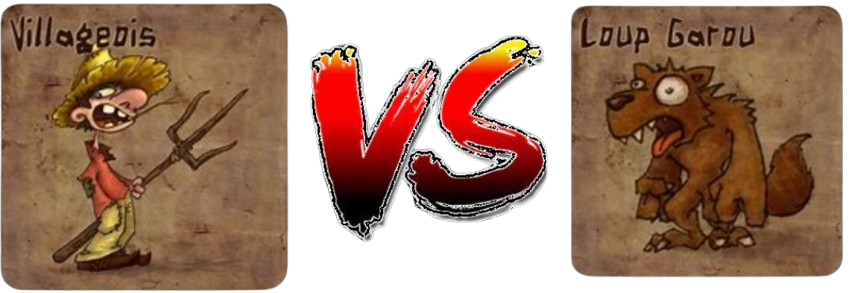
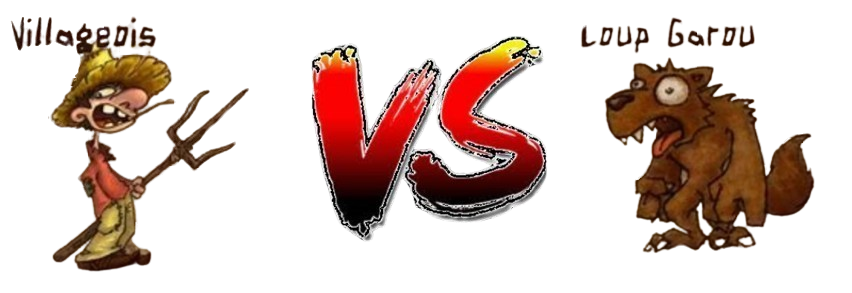
Correction image + fautes d'orthographes

diff --git a/src/app/carte/mock-cartes-list.ts b/src/app/carte/mock-cartes-list.ts
@@ -40,7 +40,7 @@ export const CARTES: Carte[] = [
         camps: CAMPS[0],
         typesPouvoir: [TYPESDEPOUVOIR[0]],
         imageLore:  "vovoLore.png",
-        description: "Chaque nuit à l'appel du meneur, elle a la capacité de voir clairement le rôle du joueur de son choix.",
+        description: "Chaque nuit à l'appel du meneur, elle a la capacité de voir clairement la carte d'un joueur de son choix.",
         typeDeCarte: TYPESDECARTES[0],
         nomDuBatiment: null,
         estActiver: true
@@ -54,7 +54,7 @@ export const CARTES: Carte[] = [
         typesPouvoir: [TYPESDEPOUVOIR[0], TYPESDEPOUVOIR[1], TYPESDEPOUVOIR[2]],
         imageLore:  "sosoLore.png",
         description: "Elle est réveillée par le meneur chaque nuit après les loups garous tant qu’elle a au moins une de ses deux potions. "+ 
-        "La potion de VIE qui peut lui permet de ressusciter la victime des loups garous y compris elle même, et la potion de MORT qui lui permet d’éliminer un joueur. " +
+        "La potion de vie qui peut lui permet de ressusciter la victime des loups garous y compris elle même, et la potion de mort qui lui permet d’éliminer un joueur. " +
         "Tant qu'elle a sa potion de vie, le meneur lui montre la victime des loups garous. "  +
         "Elle peut utiliser chaque potion une seule fois dans toute la partie, hormis cela, elle n'a pas d'autre restriction sur l'utilisation de ses potions. " ,
         
@@ -106,7 +106,7 @@ export const CARTES: Carte[] = [
         description: "Chaque nuit, le meneur le réveille avant les loups et lui demande de choisir une personne qui sera protégée contre la morsure des loups garous, " +
         "qui eux ne sauront pas que cette personne est protégée, et donc au petit matin la personne protégée sera vivante même si elle a été attaqué par les loups garous. " +
         "Le salvateur a le droit de se protéger lui-même. Il n’a pas le droit de protéger la même personne deux nuits de suite. " +
-        "S’il est amoureux, le salvateur n’est pas obligé de protéger son amoureux.",
+        "Si il est amoureux, le salvateur n’est pas obligé de protéger son amoureux.",
         typeDeCarte: TYPESDECARTES[0],
         nomDuBatiment: null,
         estActiver: true
@@ -134,9 +134,10 @@ export const CARTES: Carte[] = [
         camps: CAMPS[0],
         typesPouvoir: [TYPESDEPOUVOIR[2]],
         imageLore:  "corbeauLore.png",
-        description: "Chaque nuit, le corbeau est réveillé par le meneur, et il a la possibilité de faire circuler des rumeurs sur un joueur qu’il suspecte le plus d’être un loup garou. "+
-        "Le joueur médis, aura automatiquement deux votes contre lui lors du vote de la prochaine phase de jour. "+
-        "Le corbeau n’est pas obligé de médire quelqu’un, il peut refuser la proposition du meneur pour éviter d’handicaper un joueur.",
+        description: "Chaque nuit, le Corbeau est réveillé par le meneur, et il a la possibilité de faire circuler des rumeurs sur un joueur qu’il suspecte le plus d’être un loup garou. "+
+        "Le meneur dépose alors le marqueur «affiche anonyme» denavnt ce joueur, qui aura automatiquement deux voix de plus contre lui lors du vote de la prochaine phase de jour. "+
+        "Le Corbeau n’est pas obligé de médire quelqu’un, il peut refuser la proposition du meneur pour éviter d’handicaper un joueur. " + 
+        "Le Corbeau ne peut pas désigner un Vagabond",
         typeDeCarte: TYPESDECARTES[0],
         nomDuBatiment: null,
         estActiver: true
@@ -150,7 +151,8 @@ export const CARTES: Carte[] = [
         typesPouvoir: [TYPESDEPOUVOIR[0], TYPESDEPOUVOIR[1], TYPESDEPOUVOIR[2], TYPESDEPOUVOIR[4]],
         imageLore:  "pyromaneLore.png",
         description: "À l'appel de son rôle, une seule fois dans la partie, il peut mettre le feu à un bâtiment ce qui aura pour effet de le détruire définitivement. "+
-        "Si le propriétaire du bâtiment est la victime des loups-garous alors celui-ci est épargné, de plus le premier loup-garou à droite de la victime est éliminé.",
+        "Le meneur posera alors le marqueur «feu» sur le bâtiment. Son ex-occupant n'est pas éliminé du jeu mais il devient un vagabond. " +
+        "Si le propriétaire du bâtiment est la victime des loups-garous cette nuit là, alors celui-ci est épargné, de plus le premier loup-garou à droite de la victime est éliminé.",
         typeDeCarte: TYPESDECARTES[0],
         nomDuBatiment: null,
         estActiver: true
@@ -277,7 +279,7 @@ export const CARTES: Carte[] = [
         id: 19,
         nom: "Le Barbier",
         illustration: "barbier.png",
-        imageCarte:  "echoppe du barbier.png",
+        imageCarte:  "echoppe_du_barbier.png",
         camps: null,
         typesPouvoir: [TYPESDEPOUVOIR[2]],
         imageLore:  "barbierLore.png",
@@ -297,7 +299,7 @@ export const CARTES: Carte[] = [
         typesPouvoir: [TYPESDEPOUVOIR[0]],
         imageLore:  "confesseurLore.png",
         description: "N'importe quand durant la journée, même après la désignation par vote du joueur éliminé, "+
-        "le Confesseur désigne un joueur qui a l'obligation immédiate de lui dire à l'écart et discrètement si il s'est réveillé durant la nuit précédente.",
+        "le Confesseur désigne un joueur qui a l'obligation immédiate de lui dire à l'écart et discrètement s'il s'est réveillé durant la nuit précédente.",
         typeDeCarte: TYPESDECARTES[2],
         nomDuBatiment: "L'église",
         estActiver: true

diff --git a/src/app/regles/regles.component.html b/src/app/regles/regles.component.html
@@ -3,11 +3,13 @@
     <div class="card horizontal">
         <div class="card-stacked">
             <div class="card-content" >
-                <h2>But du jeu</h2>
+                <h2>C'est quoi ?</h2>
                 <p >
-                    Le jeu de société les loups garous de Thiercelieux fait s'affronter deux camps : <a href="camps/1" class="link"> les villageois</a> 
-                    et <a href="camps/2" class="link"> les loups-garous</a>.
+                    Les loups-garous de Thiercelieux est un jeu à rôle, à objectif secret et d'ambiance opposant deux camps : <a href="camps/1" class="link"> les villageois</a>  et <a href="camps/2" class="link"> les loups-garous</a>. 
+                    Ainsi, le jour, tout semble parfaitement normal dans ce petit village reculé, mais la nuit, certains des villageois se transforment, sous la clarté de la lune,
+                     en loups-garous, et s'en vont dévorer leurs camarades villageois. Chaque joueur possède un rôle secret dont il prend connaissance au début de la partie. 
                     La condition de victoire des villageois est d'éliminer tous les loups-garous, qui eux, pour gagner doivent éliminer tous les villageois.
+                    C'est tout un camp qui remporte la victoire, et non pas seulement les vivants, n'hésitez donc pas à vous sacrifier!
                     </p>
 
                 <br>
@@ -19,7 +21,7 @@
                 <p>
                     Une partie se déroule avec une alternance entre une phase de nuit et une phase de jour. Au début de chaque nuit, le meneur demande à tous les joueurs de fermer les yeux.
                     Puis il demande aux personnages nocturnes de les rouvrir (de se réveiller) à tour de rôle pour utiliser leur pouvoir.
-                    Ainsi chaque nuit, les loups-garous dévorent un villageois tandis des villageois ayant des pouvoirs spécials qu'on appelle «villageois spéciaux» 
+                    Ainsi chaque nuit, les loups-garous dévorent un villageois tandis que certains villageois ayant des pouvoirs spécials qu'on appelle «villageois spéciaux» 
                     se réveillent afin de mettre en déroute les loups-garous.
                     Lorsque tous les rôles nocturnes ont été appelés, le meneur demande à tous les joueurs d'ouvrir les yeux (le village se réveille).
                     

diff --git a/src/app/carte/mock-typesDePouvoirs-list.ts b/src/app/carte/mock-typesDePouvoirs-list.ts
@@ -43,8 +43,8 @@ export const TYPESDEPOUVOIR: typesDePouvoirs[] = [
         id: 5,
         nom: "Affaiblissement",
         illustration:  "malediction.webp",
-        description: "Le type de pouvoir affaiblissement désigne tout les pouvoirs qui rendent inuitilisable de manière temporairement ou définitivement " +
-        "le pouvoir d'un joueur ou bien de l'empêcher de voter",
+        description: "Le type de pouvoir affaiblissement désigne tout les pouvoirs qui rendent inutilisable de manière temporairement ou définitivement " +
+        "le pouvoir d'un joueur ou bien qui l'empêche de voter",
         nomMembre: "ensorceleurs",
         determinant: "d'"
     },
@@ -52,7 +52,7 @@ export const TYPESDEPOUVOIR: typesDePouvoirs[] = [
         id: 6,
         nom: "Immunité",
         illustration:  "immuniter.jpeg",
-        description: "Le type de pouvoir immunité désigne tout les pouvoirs qui permettent d'être immuniser à un pouvoir spécial.",
+        description: "Le type de pouvoir immunité désigne tout les pouvoirs qui permettent d'être immunisé à un pouvoir spécial.",
         nomMembre: "immunisés",
         determinant: "d'"
     }

diff --git a/src/app/carte/mock-typesDeCartes-list.ts b/src/app/carte/mock-typesDeCartes-list.ts
@@ -24,8 +24,8 @@ export const TYPESDECARTES: typesDeCartes[] = [
         id: 3,
         nom: "Bâtiment",
         illustration:  "batiments.jpeg",
-        description: "En plus de leur identité secrète, les habitants peuvent recevoir un bâtiment qui leur donne une identité publique. " +
-        "Un pouvoir supplémentaire associé à leur bâtiment est utilisable par ces habitants. " +
+        description: "En plus de leur identité secrète, les habitants reçoivent un jeton qui leur donne une identité publique. " +
+        "Un pouvoir supplémentaire associé à leurs bâtiments est utilisable par ces habitants. " +
         "Contrairement aux cartes personnages, les cartes bâtiments sont disposés face visibles à la vue de tous mais sont cumulables avec une carte personnage et une carte fonction. "+
         "Le but de ces joueurs ayant une carte bâtiment restent celles de leurs cartes personnages mais ils disposent maintenant d'un pouvoir plus grand pour y parvenir."
     }
